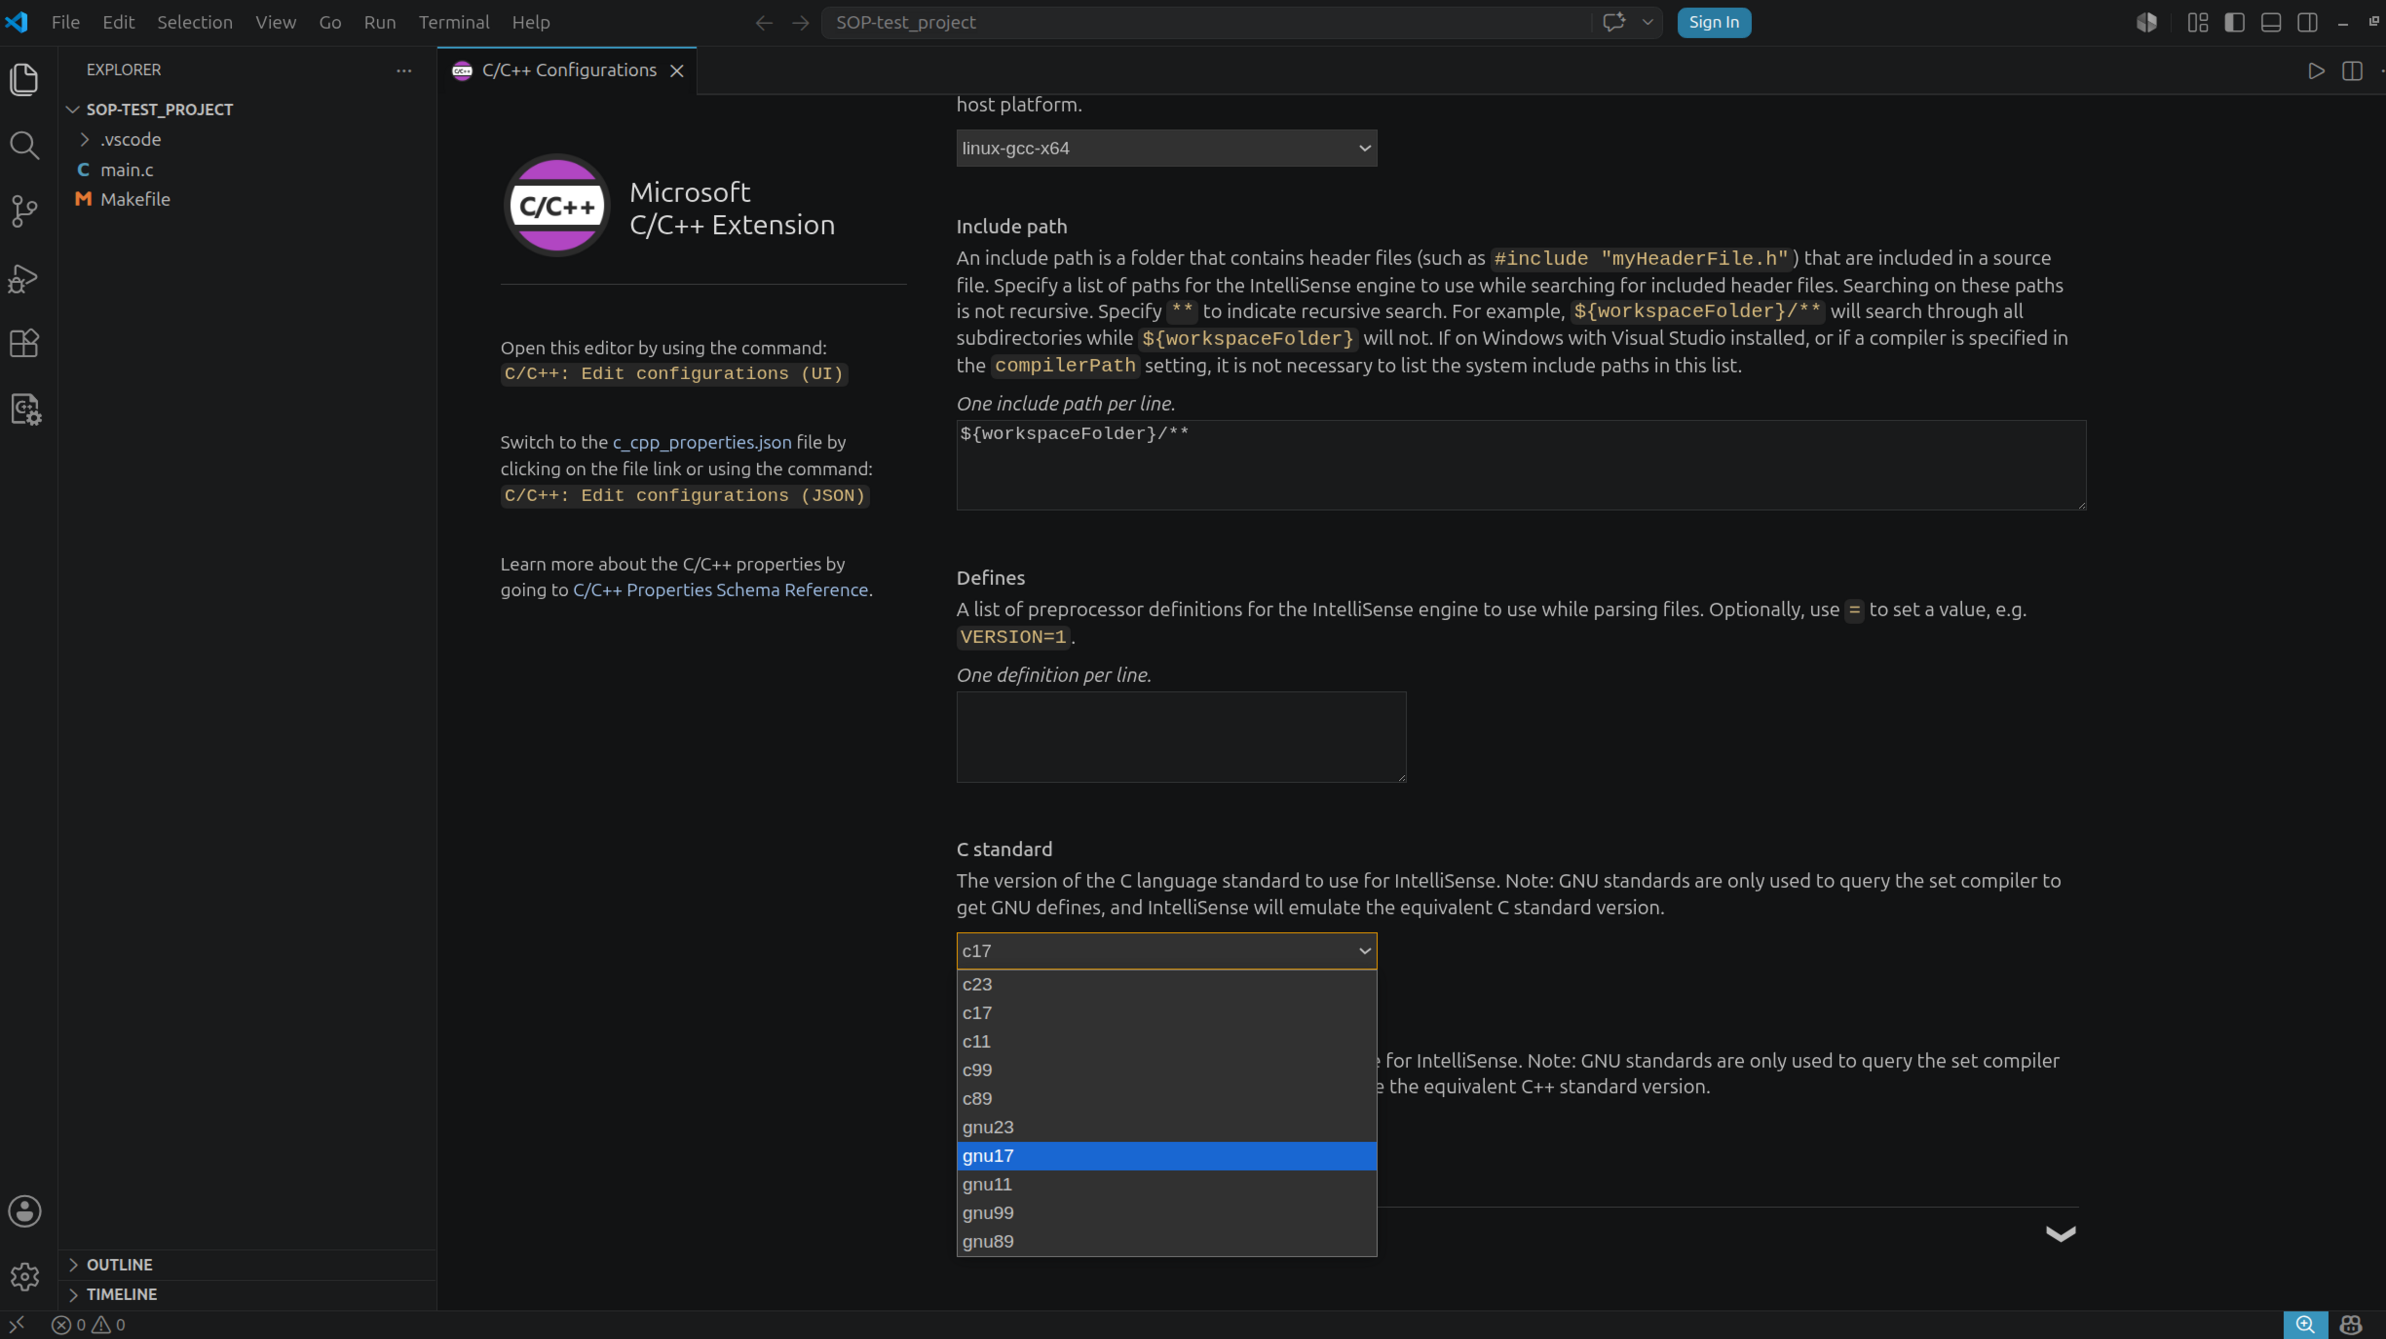
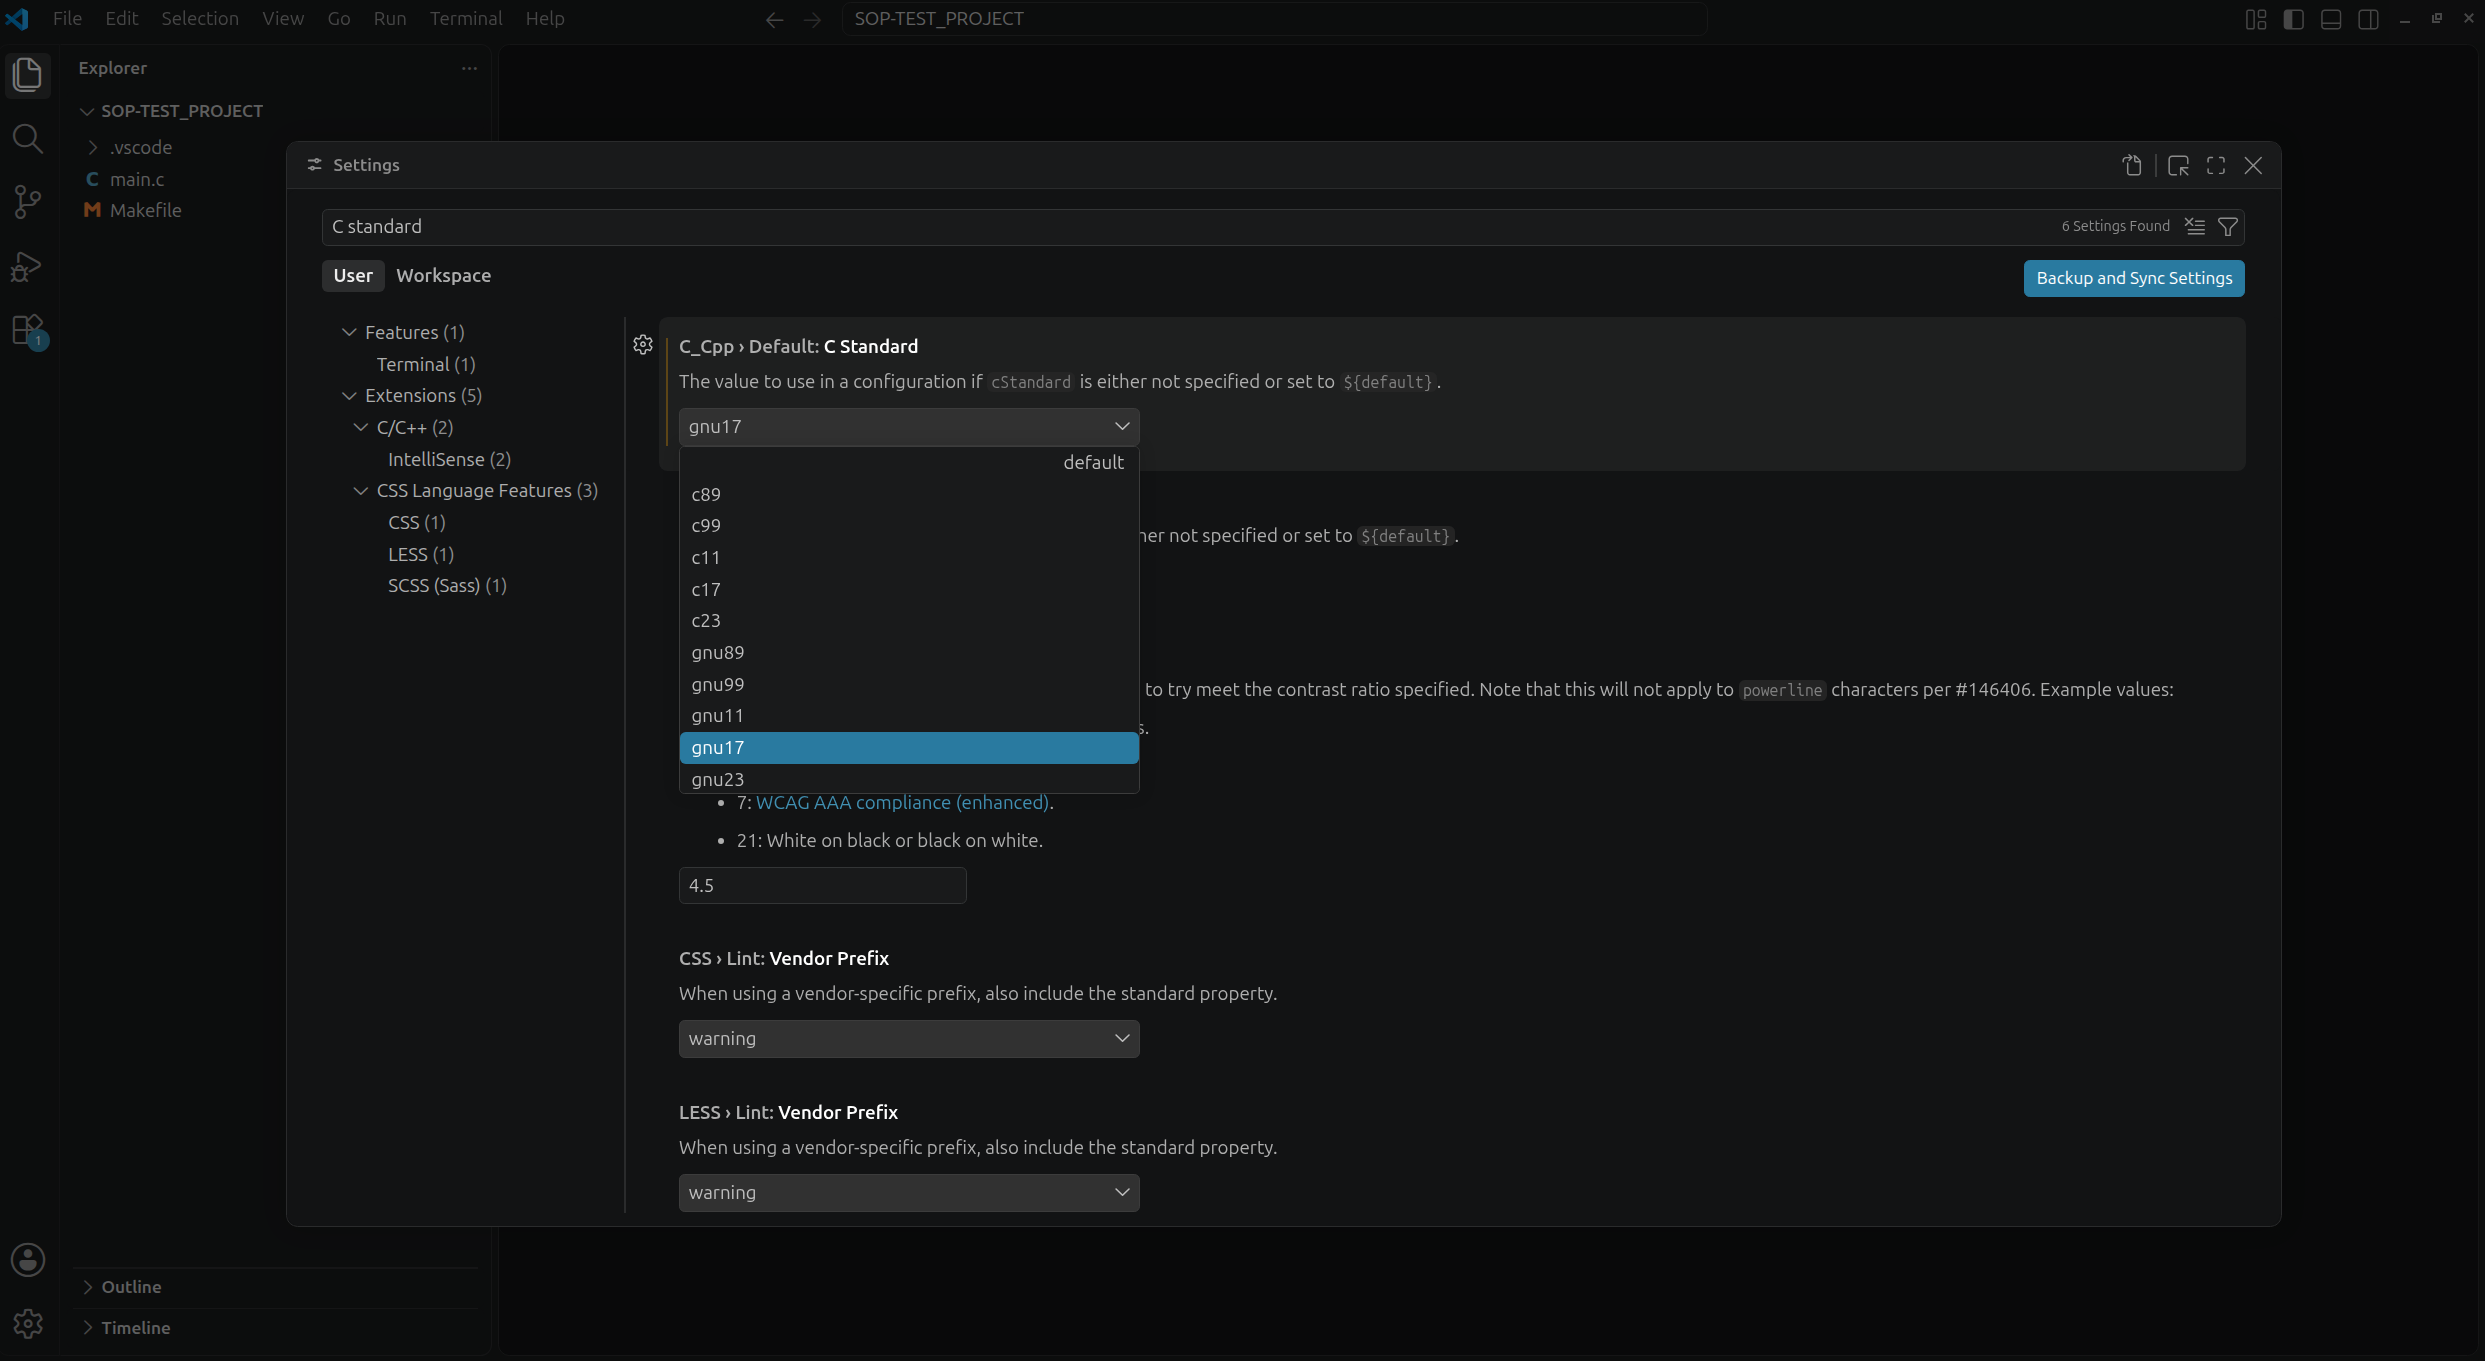
VSC configuration setup fix (#83)
* Init fix for VSC setup tutorial

* tweak

* forgor english tweak

* small tweaks

* update for C extention in OSS

---------

diff --git a/content/info/IDE-configuration.pl.md b/content/info/IDE-configuration.pl.md
@@ -100,17 +100,35 @@ Program jest w tym momencie gotowy na laboratoria. Wciąż warto spędzić kilka
 
 ## Konfiguracja Visual Studio Code
 
-Przed utworzeniem projektu należy najpierw zainstalować rozszerzenia potrzebne do pracy z C/C++. W tym celu uruchamiamy Visual Studio Code, a następnie przechodzimy w zakładkę rozszerzenia (skrót klawiszowy: `Ctrl + Shift + X`).
+**Uwaga!** VS Code występuje w dwóch głównych wersjach:
+- **Visual Studio Code** -- oficjalna wersja wydawana przez Microsoft (najprawdopodobniej jest to wersja, z której korzystacie na własnych komputerach).
+- **Code OSS** -- wersja open source rozwijana przez Microsoft i społeczność (tej wersji używamy na laboratoriach).
 
-![](/img/vsc1.png) 
+Code OSS nie udostępnia w swojej wyszukiwarce wszystkich rozszerzeń dostępnych w oficjalnej wersji Microsoftu. Instalacja niektórych z nich wymaga więc dodatkowego kroku. W tym tutorialu dotyczy to rozszerzenia **C/C++**, które ułatwia pracę z językami C i C++.
 
-Wyszukujemy rozszerzenia **C/C++** (wydane przez Microsoft, powinno być to pierwsze rozszerzenie po wyszukiwaniu) po czym klikamy *install*. Instalacja jest automatyczna i nie jest wymagany restart edytora.
+Jeżeli korzystamy z oficjalnej wersji VS Code od Microsoftu, instalujemy rozszerzenie **C/C++** bezpośrednio w edytorze. Uruchamiamy Visual Studio Code, a następnie przechodzimy do zakładki rozszerzeń (skrót klawiszowy: `Ctrl + Shift + X`).
 
-![](/img/vsc2.png) 
+![](/img/vsc1.png)
 
-Podobnie postępujemy ze wtyczką **Makefile tools** (również dystrybuowane przez Microsoft).
+Wyszukujemy rozszerzenie **C/C++** wydane przez Microsoft (powinno być jednym z pierwszych wyników wyszukiwania), a następnie klikamy *Install*. Instalacja przebiega automatycznie i zwykle nie wymaga ponownego uruchomienia edytora.
 
-![](/img/vsc3.png) 
+![](/img/vsc2.png)
+
+W przypadku Code OSS, z którego korzystamy na zajęciach laboratoryjnych, potrzebny będzie dodatkowy krok. Rozszerzenie **C/C++** nie jest dostępne w domyślnym katalogu rozszerzeń Code OSS (Open VSX), dlatego plik instalacyjny musimy pobrać ręcznie. Wchodzimy na [oficjalne repozytorium GitHub rozszerzenia](https://github.com/microsoft/vscode-cpptools/releases), bezpośrednio do sekcji z wydanymi wersjami. Wybieramy wersję rozszerzenia (najlepiej najnowszą stabilną), rozwijamy sekcję `Assets` i pobieramy plik `.vsix` dla systemu Linux na architekturze x86-64, np. `cpptools-linux-x64.vsix`.
+
+![](/img/vsc1_OSS.png)
+
+Następnie instalujemy pobrane rozszerzenie w edytorze. Otwieramy zakładkę rozszerzeń (`Ctrl + Shift + X`), klikamy trzy kropki (`...`) obok nagłówka *Extensions* w lewym górnym rogu i wybieramy opcję `Install from VSIX...`. Wskazujemy pobrany plik `.vsix`, zatwierdzamy instalację i w razie potrzeby uruchamiamy edytor ponownie.
+
+![](/img/vsc2_OSS.png)
+
+W ten sposób instalujemy rozszerzenie ułatwiające pracę z językiem C.  
+
+Kolejna część tutoriala jest już taka sama dla obu wersji edytora.  
+
+Następnym rozszerzeniem do zainstalowania będzie **Makefile Tools**. Jest ono również rozwijane przez Microsoft, ale w przeciwieństwie do C/C++ jest dostępne w domyślnym katalogu rozszerzeń Code OSS. W obu wersjach edytora instalujemy je standardowo: otwieramy zakładkę rozszerzeń (`Ctrl + Shift + X`), wyszukujemy **Makefile Tools** i klikamy *Install*.
+
+![](/img/vsc3.png)
 
 Są to wszystkie rozszerzenia potrzebne do wygodnej pracy z kodem w języku C.   
 
@@ -118,14 +136,14 @@ W Visual Studio Code klikamy w lewym górnym rogu `File -> Open Folder` i wybier
 
 W takiej konfiguracji wywołanie polecenia `make` kompiluje program wypisujący `Hello world` na standardowe wyjście.  
 
-**Uwaga!** Bardzo ważnym krokiem jest zmiana domyślnego standardu C, którego używa edytor! W przeciwnym razie edytor podświetla część nazw jako nieznane, mimo że program poprawnie się kompiluje! By to rozwiązać należy zmienić domyślny standard `c17` na `gnu17`. By to zrobić klikamy skrót klawiszowy `Ctrl + Shift + P`, wpisujemy `C/C++: Edit Configurations (UI)` oraz naciśnijmy enter. Powinna pojawić się nam strona z ustawieniami kompilatora. Przewijamy stronę w dół, gdzie w zakładce `C standard` zmieniamy z `c17` na `gnu17`. Powinno wyglądać to mniej więcej tak:
+**Uwaga!** Bardzo ważnym krokiem jest zmiana domyślnego standardu C, którego używa edytor! W przeciwnym razie edytor podświetla część nazw jako nieznane, mimo że program poprawnie się kompiluje! By to rozwiązać należy zmienić domyślny standard `c17` na `gnu17`. By to zrobić klikamy skrót klawiszowy `Ctrl + ,` (Control plus przecinek), wpisujemy `C standard` w wyszukiwarkę opcji i zmieniamy z `c17` na `gnu17`. Powinno wyglądać to mniej więcej tak:
 
 ![](/img/vsc5.png) 
 
 Od tego momentu edytor powinien poprawnie analizować i podświetlać kod.  
 
 **Uwaga!** Koniecznym jest by w środowisku nie było żadnych pomocniczych narzędzi AI (w VS Code domyślnie jest zainstalowany GitHub Copilot, niemniej jednak trzeba się zalogować + narzędzie to domyślnie nie podpowiada w trakcie manualnego pisania kodu). Oczywiście instalacja dodatkowych rozszerzeń z agentami AI jest dość odradzana.  
-Łatwym sposobem na wyłączenie jakichkolwiek pomocy związanych z AI jest: wciśnięcie `Ctrl +` , oraz wpisanie `disable ai features` oraz zaznaczenie `chat.disableAIFeatures`.
+Łatwym sposobem na wyłączenie jakichkolwiek pomocy związanych z AI jest: wciśnięcie `Ctrl + ,`, oraz wpisanie `disable ai features` oraz zaznaczenie `chat.disableAIFeatures`.
 
 ![](/img/vsc14.png) 
 
@@ -144,7 +162,7 @@ Wciskamy `Ctrl + ,` po czym wpisujemy w wyszukiwarkę `configuration provider`. 
 
 ![](/img/vsc8.png)
 
-Następnie (w otworzonym projekcie) wciskamy skrót `Ctrl + Shift + P` oraz uruchamiamy polecenie `Makefile: Configure`. Dokona to automatycznej konfiguracji opcji Makefile do VS Code. Następnie ponownie wciskamy skrót `Ctrl + Shift + P` oraz uruchamiamy komendę `Makefile: Set the target to be built by make` oraz wybieramy `all`.
+Następnie (w otworzonym projekcie) wciskamy skrót `Ctrl + Shift + P` oraz uruchamiamy polecenie `Makefile: Configure`. Dokona to automatycznej konfiguracji opcji Makefile do VS Code.
 
 Następnie skonfigurujemy opcjonalną, ale bardzo przydatną funkcję automatycznego formatowania kodu przy zapisie plików C. W trakcie laboratoriów, w naszym projekcie będziemy mieli dostęp do pliku konfiguracyjnego `.clang-format`.
 

diff --git a/content/info/IDE-configuration.en.md b/content/info/IDE-configuration.en.md
@@ -98,17 +98,35 @@ Now, every time you save a file (Ctrl+S), it will be automatically formatted acc
 
 Your IDE is now ready for the laboratories. It is still worth spending a few minutes reviewing and adjusting various options in the settings (`Edit->Preferences`), especially in the Environment section, where you can configure the appearance and keyboard shortcuts. By default, QtCreator has a very convenient search engine under the shortcut `ctrl+k` that allows you to find various object classes (files, functions, global variables, etc.) in the project. Other options and instructions can be found in the help and documentation.
 
-## Visual Studio Code Configuration
+## Configuring Visual Studio Code
 
-Before creating a project, you should first install the extensions needed for working with C/C++. To do this, launch Visual Studio Code and open the Extensions tab (keyboard shortcut: `Ctrl + Shift + X`).
+**Note!** VS Code comes in two main versions:
+- **Visual Studio Code** -- the official version distributed by Microsoft (most likely the version you use on your own computer).
+- **Code OSS** -- the open-source version developed by Microsoft and the community (this is the version we use in the lab).
 
-![](/img/vsc1.png) 
+Code OSS does not list all the extensions available in Microsoft's official version in its built-in extension search. Installing some of them therefore requires an extra step. In this tutorial, this applies to the **C/C++** extension, which makes working with C and C++ easier.
 
-Search for the **C/C++** extension (published by Microsoft; it should be the first result after searching), then click *Install*. The installation is automatic and restarting the editor is not required.
+If you use the official Microsoft version of VS Code, you can install the **C/C++** extension directly in the editor. Open Visual Studio Code and go to the Extensions tab (keyboard shortcut: `Ctrl + Shift + X`).
 
-![](/img/vsc2.png) 
+![](/img/vsc1.png)
 
-Do the same for the **Makefile Tools** extension (also published by Microsoft).
+Search for the **C/C++** extension published by Microsoft (it should be among the first results), then click *Install*. Installation is automatic and usually does not require restarting the editor.
+
+![](/img/vsc2.png)
+
+With Code OSS, which we use in the lab, an extra step is needed. The **C/C++** extension is not available in Code OSS's default extension registry (Open VSX), so we need to download the installation file manually. Go to the [extension's official GitHub releases page](https://github.com/microsoft/vscode-cpptools/releases). Choose a release (preferably the latest stable version), expand the `Assets` section, and download the `.vsix` file for Linux on x86-64, such as `cpptools-linux-x64.vsix`.
+
+![](/img/vsc1_OSS.png)
+
+Next, install the downloaded extension in the editor. Open the Extensions tab (`Ctrl + Shift + X`), click the three dots (`...`) next to the *Extensions* heading in the upper-left corner, and select `Install from VSIX...`. Select the downloaded `.vsix` file, confirm the installation, and restart the editor if necessary.
+
+![](/img/vsc2_OSS.png)
+
+This installs an extension that makes working with C easier.  
+
+The rest of the tutorial is the same for both versions of the editor.  
+
+The next extension to install is **Makefile Tools**. It is also developed by Microsoft, but unlike C/C++, it is available in Code OSS's default extension registry. In both versions of the editor, install it as usual: open the Extensions tab (`Ctrl + Shift + X`), search for **Makefile Tools**, and click *Install*.
 
 ![](/img/vsc3.png) 
 
@@ -118,7 +136,7 @@ In Visual Studio Code, click `File -> Open Folder` in the upper-left corner and 
 
 With this configuration, running the `make` command compiles the program that prints `Hello world` to the standard output.  
 
-**Note!** A very important step is changing the default C standard used by the editor. Otherwise, the editor may mark some names as unknown even though the program compiles correctly. To fix this, change the default standard from `c17` to `gnu17`. To do this, press `Ctrl + Shift + P`, type `C/C++: Edit Configurations (UI)`, and press Enter. A page with compiler settings should appear. Scroll down to the `C standard` section and change the value from `c17` to `gnu17`. It should look more or less like this:
+**Note!** A very important step is changing the default C standard used by the editor. Otherwise, the editor may mark some names as unknown even though the program compiles correctly. To fix this, change the default standard from `c17` to `gnu17`. To do this, press `Ctrl + ,` (Control + comma), type `C standard` in the settings search bar, and change `c17` to `gnu17`. It should look something like this:
 
 ![](/img/vsc5.png) 
 
@@ -126,7 +144,7 @@ From this point on, the editor should analyze and highlight the code correctly.
 
 **Note!** It is necessary to ensure that no AI-assisted tools are active in the environment. In newer versions of VS Code, GitHub Copilot features are available built in, but using them requires activation and signing in. To be safe, they should be disabled. Installing additional extensions with AI agents is not allowed.
 
-An easy way to disable AI-related features is to press `Ctrl + ,`, type `disable ai features` in the settings search bar, and then enable the `Chat: Disable AI Features` option, which sets `chat.disableAIFeatures` to `true`.
+An easy way to disable AI-related features is to press `Ctrl + ,` (Control plus comma), type `disable ai features` in the settings search bar, and then enable the `Chat: Disable AI Features` option, which sets `chat.disableAIFeatures` to `true`.
 
 ![](/img/vsc14.png)
 
@@ -145,7 +163,7 @@ Press `Ctrl + ,` and type `configuration provider` in the search bar. In the `C_
 
 ![](/img/vsc8.png)
 
-Next, with the project open, press `Ctrl + Shift + P` and run the `Makefile: Configure` command. This will automatically configure Makefile support in VS Code. Then press `Ctrl + Shift + P` again, run the `Makefile: Set the target to be built by make` command, and select `all`.
+Next, with the project open, press `Ctrl + Shift + P` and run the `Makefile: Configure` command. This will automatically configure Makefile support in VS Code.
 
 Next, we will configure an optional but very useful feature: automatic code formatting when saving C files. During the labs, our project will include the following `.clang-format` file.
 
